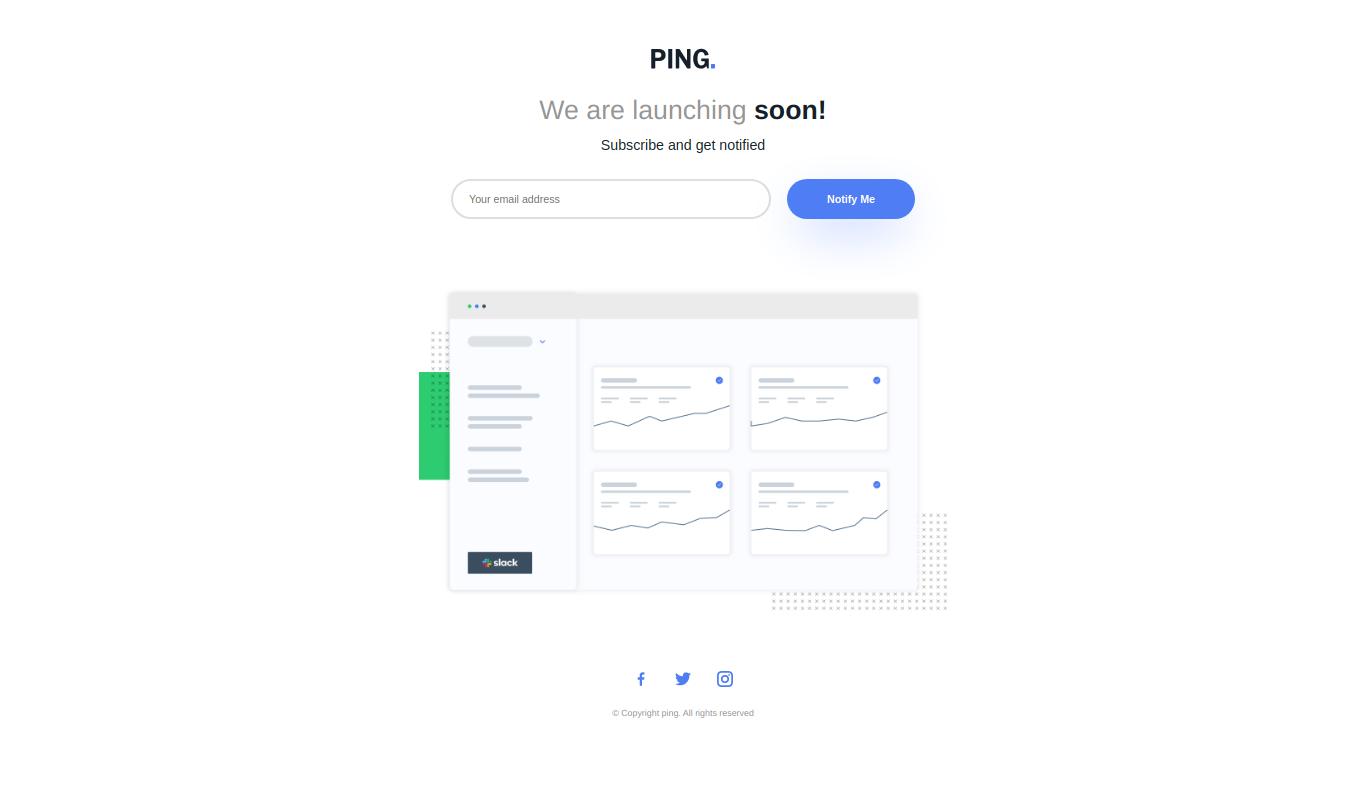
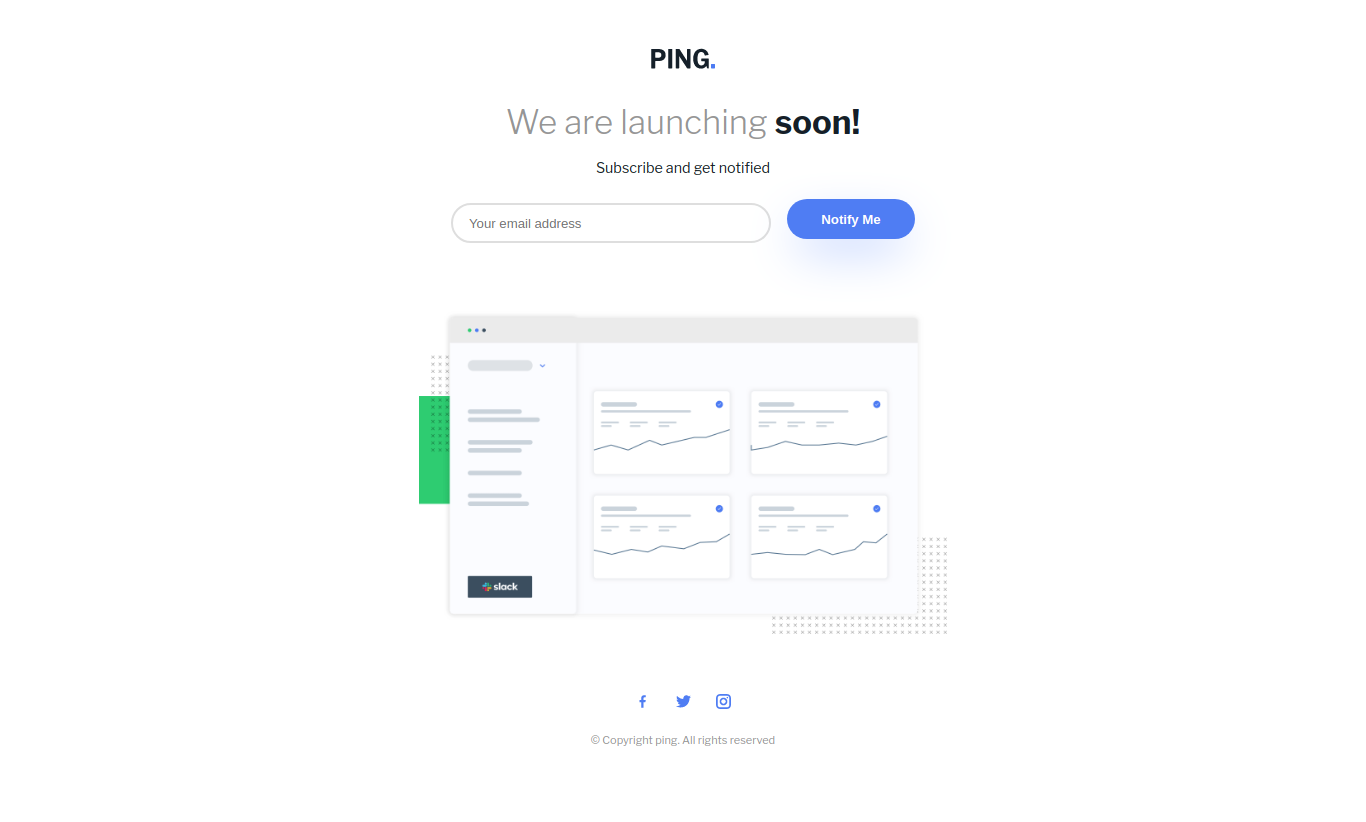
Text change in validemail class

diff --git a/components/Landing.js b/components/Landing.js
@@ -9,6 +9,7 @@ export default class Landing extends React.Component {
         this.state={
             email: "",
             validemail: true,
+            maillength: 0,
         }
     }
 
@@ -51,7 +52,7 @@ export default class Landing extends React.Component {
                                 <div className={styles.mobileerror}>
                                     <p className={styles.validemail} style={{display:this.state.validemail?"none":"flex"}}>
                                         <i>
-                                            Please provide a valid email address
+                                            {this.state.email.length>0?"Please provide a valid email address":"Whoops! It looks like you forgot to add your email"}
                                         </i>
                                     </p>
                                 </div>
@@ -61,6 +62,7 @@ export default class Landing extends React.Component {
                                 onClick={()=>{
                                     this.checkmail(this.state.email);
                                 }}
+                                style={{marginTop: this.state.validemail?"-0.5rem":"1rem"}}
                             >
                                 Notify Me
                             </button>
@@ -68,7 +70,7 @@ export default class Landing extends React.Component {
                         <div className={styles.desktoperror}>
                             <p className={styles.validemail} style={{display:this.state.validemail?"none":"flex"}}>
                                 <i>
-                                    Please provide a valid email address
+                                    {this.state.email.length>0?"Please provide a valid email address":"Whoops! It looks like you forgot to add your email"}
                                 </i>
                             </p>
                         </div>
@@ -86,17 +88,17 @@ export default class Landing extends React.Component {
                         <a href="#"
                             className={styles.social}
                         >
-                            <GrFacebookOption />
+                            <GrFacebookOption size={15}/>
                         </a>
                         <a href="#"
                             className={styles.social}
                         >
-                            <GrTwitter />
+                            <GrTwitter size={15}/>
                         </a>
                         <a href="#"
                             className={styles.social}
                         >
-                            <GrInstagram />
+                            <GrInstagram size={15}/>
                         </a>
                     </div>
                     <div className={styles.copyright}>

diff --git a/styles/Landing.module.css b/styles/Landing.module.css
@@ -32,7 +32,7 @@
 }
 
 .subscribe {
-    font-size: 1.6ch;
+    font-size: 1.3ch;
     color: hsl(209,33%,12%);
     margin-top: -1rem;
 }
@@ -65,7 +65,6 @@
     border: 2px #DEDEDE solid;
     padding-left: 1rem;
     font-size: 1.2ch;
-    /* color: #DEDEDE; */
 }
 
 .errorinputcontainer {
@@ -77,7 +76,6 @@
     border: 2px hsl(354,100%,66%) solid;
     padding-left: 1rem;
     font-size: 1.2sch;
-    /* color: #DEDEDE; */
 }
 
 .notify {
@@ -184,7 +182,7 @@
     .form {
         flex: 1;
         flex-direction: column;
-        margin-top: 2rem;
+        margin-top: 3rem;
     }
 
     .inputcontainer {
@@ -204,10 +202,9 @@
     }
 
     .notify {
-        margin-top: 0rem;
         width: 20rem;
         height: 2.7rem;
-        font-size: 1.6ch;
+        font-size: 1.4ch;
     }
 
     .validemail {
@@ -215,8 +212,8 @@
         justify-content: center;
         align-items: center;
         font-weight: 500;
-        /* margin-top: -5rem; */
         font-size: 1ch;
+        margin-left: 0;
     }
 
     .dashboard {
@@ -238,5 +235,11 @@
     
     .desktoperror {
         display: none;
+    }
+}
+
+@media (max-width:375px){
+    .launch {
+        font-size: 2.5ch;
     }
 }

diff --git a/README.md b/README.md
@@ -1,34 +1,51 @@
-This is a [Next.js](https://nextjs.org/) project bootstrapped with [`create-next-app`](https://github.com/vercel/next.js/tree/canary/packages/create-next-app).
+# Frontend Mentor - Ping coming soon page solution
 
-## Getting Started
+This is a solution to the [Ping coming soon page challenge on Frontend Mentor](https://www.frontendmentor.io/challenges/ping-single-column-coming-soon-page-5cadd051fec04111f7b848da). Frontend Mentor challenges help you improve your coding skills by building realistic projects. 
 
-First, run the development server:
+## Table of contents
 
-```bash
-npm run dev
-# or
-yarn dev
-```
+- [Frontend Mentor - Ping coming soon page solution](#frontend-mentor---ping-coming-soon-page-solution)
+  - [Table of contents](#table-of-contents)
+  - [Overview](#overview)
+    - [The challenge](#the-challenge)
+    - [Screenshot](#screenshot)
+      - [Desktop view](#desktop-view)
+      - [Mobile view](#mobile-view)
+    - [Links](#links)
+  - [My process](#my-process)
+    - [Built with](#built-with)
 
-Open [http://localhost:3000](http://localhost:3000) with your browser to see the result.
+**Note: Delete this note and update the table of contents based on what sections you keep.**
 
-You can start editing the page by modifying `pages/index.js`. The page auto-updates as you edit the file.
+## Overview
 
-[API routes](https://nextjs.org/docs/api-routes/introduction) can be accessed on [http://localhost:3000/api/hello](http://localhost:3000/api/hello). This endpoint can be edited in `pages/api/hello.js`.
+### The challenge
 
-The `pages/api` directory is mapped to `/api/*`. Files in this directory are treated as [API routes](https://nextjs.org/docs/api-routes/introduction) instead of React pages.
+Users should be able to:
 
-## Learn More
+- View the optimal layout for the site depending on their device's screen size
+- See hover states for all interactive elements on the page
+- Submit their email address using an `input` field
+- Receive an error message when the `form` is submitted if:
+	- The `input` field is empty. The message for this error should say *"Whoops! It looks like you forgot to add your email"*
+	- The email address is not formatted correctly (i.e. a correct email address should have this structure: `name@host.tld`). The message for this error should say *"Please provide a valid email address"*
 
-To learn more about Next.js, take a look at the following resources:
+### Screenshot
 
-- [Next.js Documentation](https://nextjs.org/docs) - learn about Next.js features and API.
-- [Learn Next.js](https://nextjs.org/learn) - an interactive Next.js tutorial.
+#### Desktop view
+![](./public/Desktop.png)
 
-You can check out [the Next.js GitHub repository](https://github.com/vercel/next.js/) - your feedback and contributions are welcome!
+#### Mobile view
+![](./public/Mobile.png)
 
-## Deploy on Vercel
 
-The easiest way to deploy your Next.js app is to use the [Vercel Platform](https://vercel.com/new?utm_medium=default-template&filter=next.js&utm_source=create-next-app&utm_campaign=create-next-app-readme) from the creators of Next.js.
+### Links
 
-Check out our [Next.js deployment documentation](https://nextjs.org/docs/deployment) for more details.
+- Solution URL: https://github.com/hemantsirsat/challenge-8
+- Live Site URL: [Add live site URL here](https://your-live-site-url.com)
+
+## My process
+
+### Built with
+
+- [Next.js](https://nextjs.org/) - React framework
